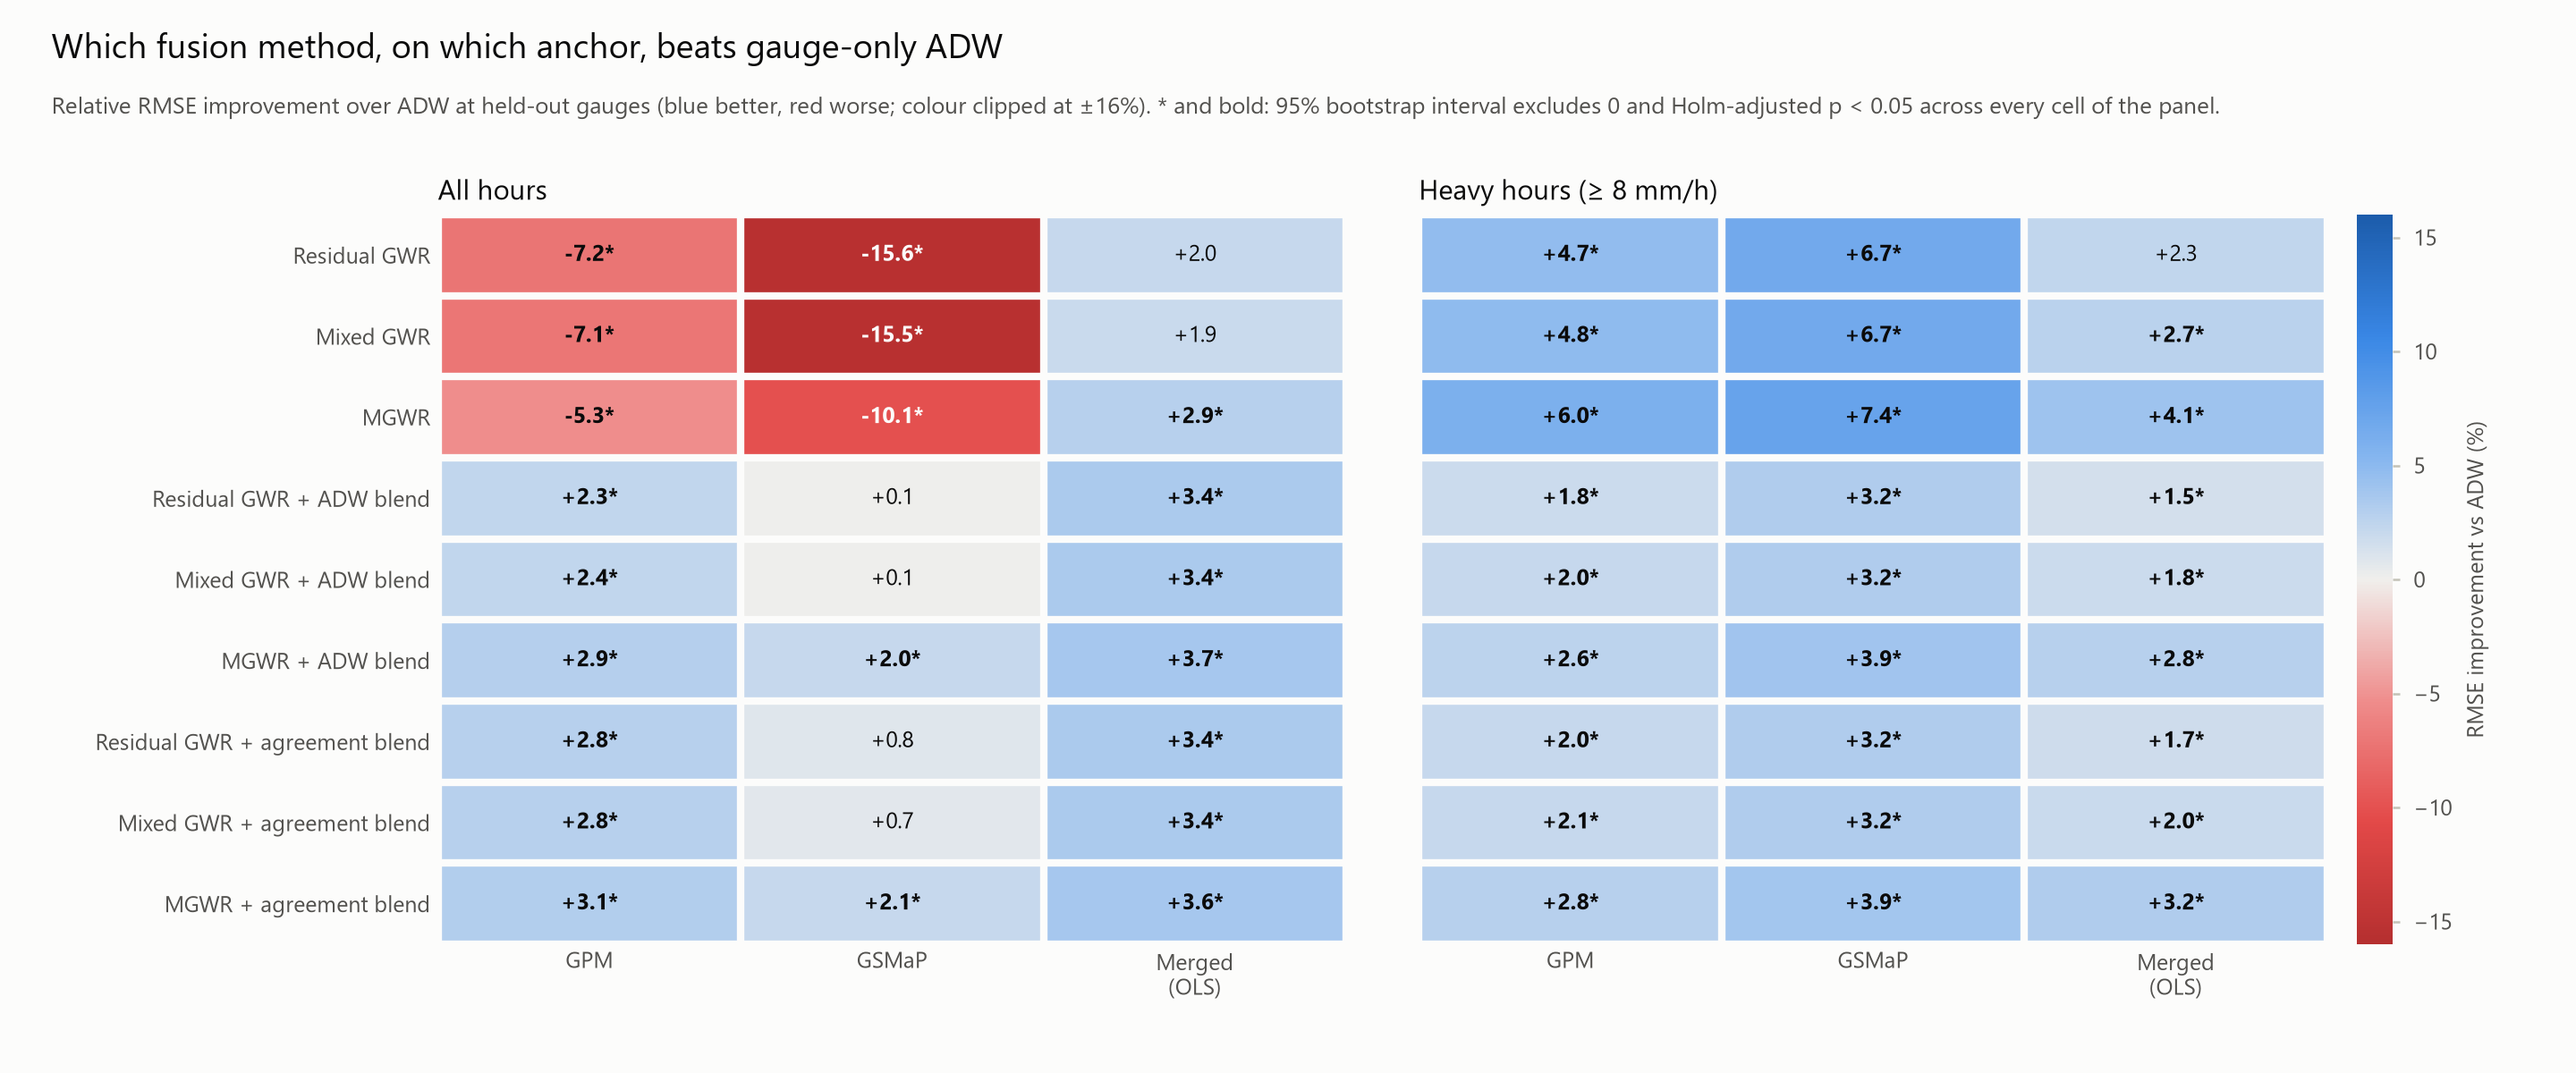
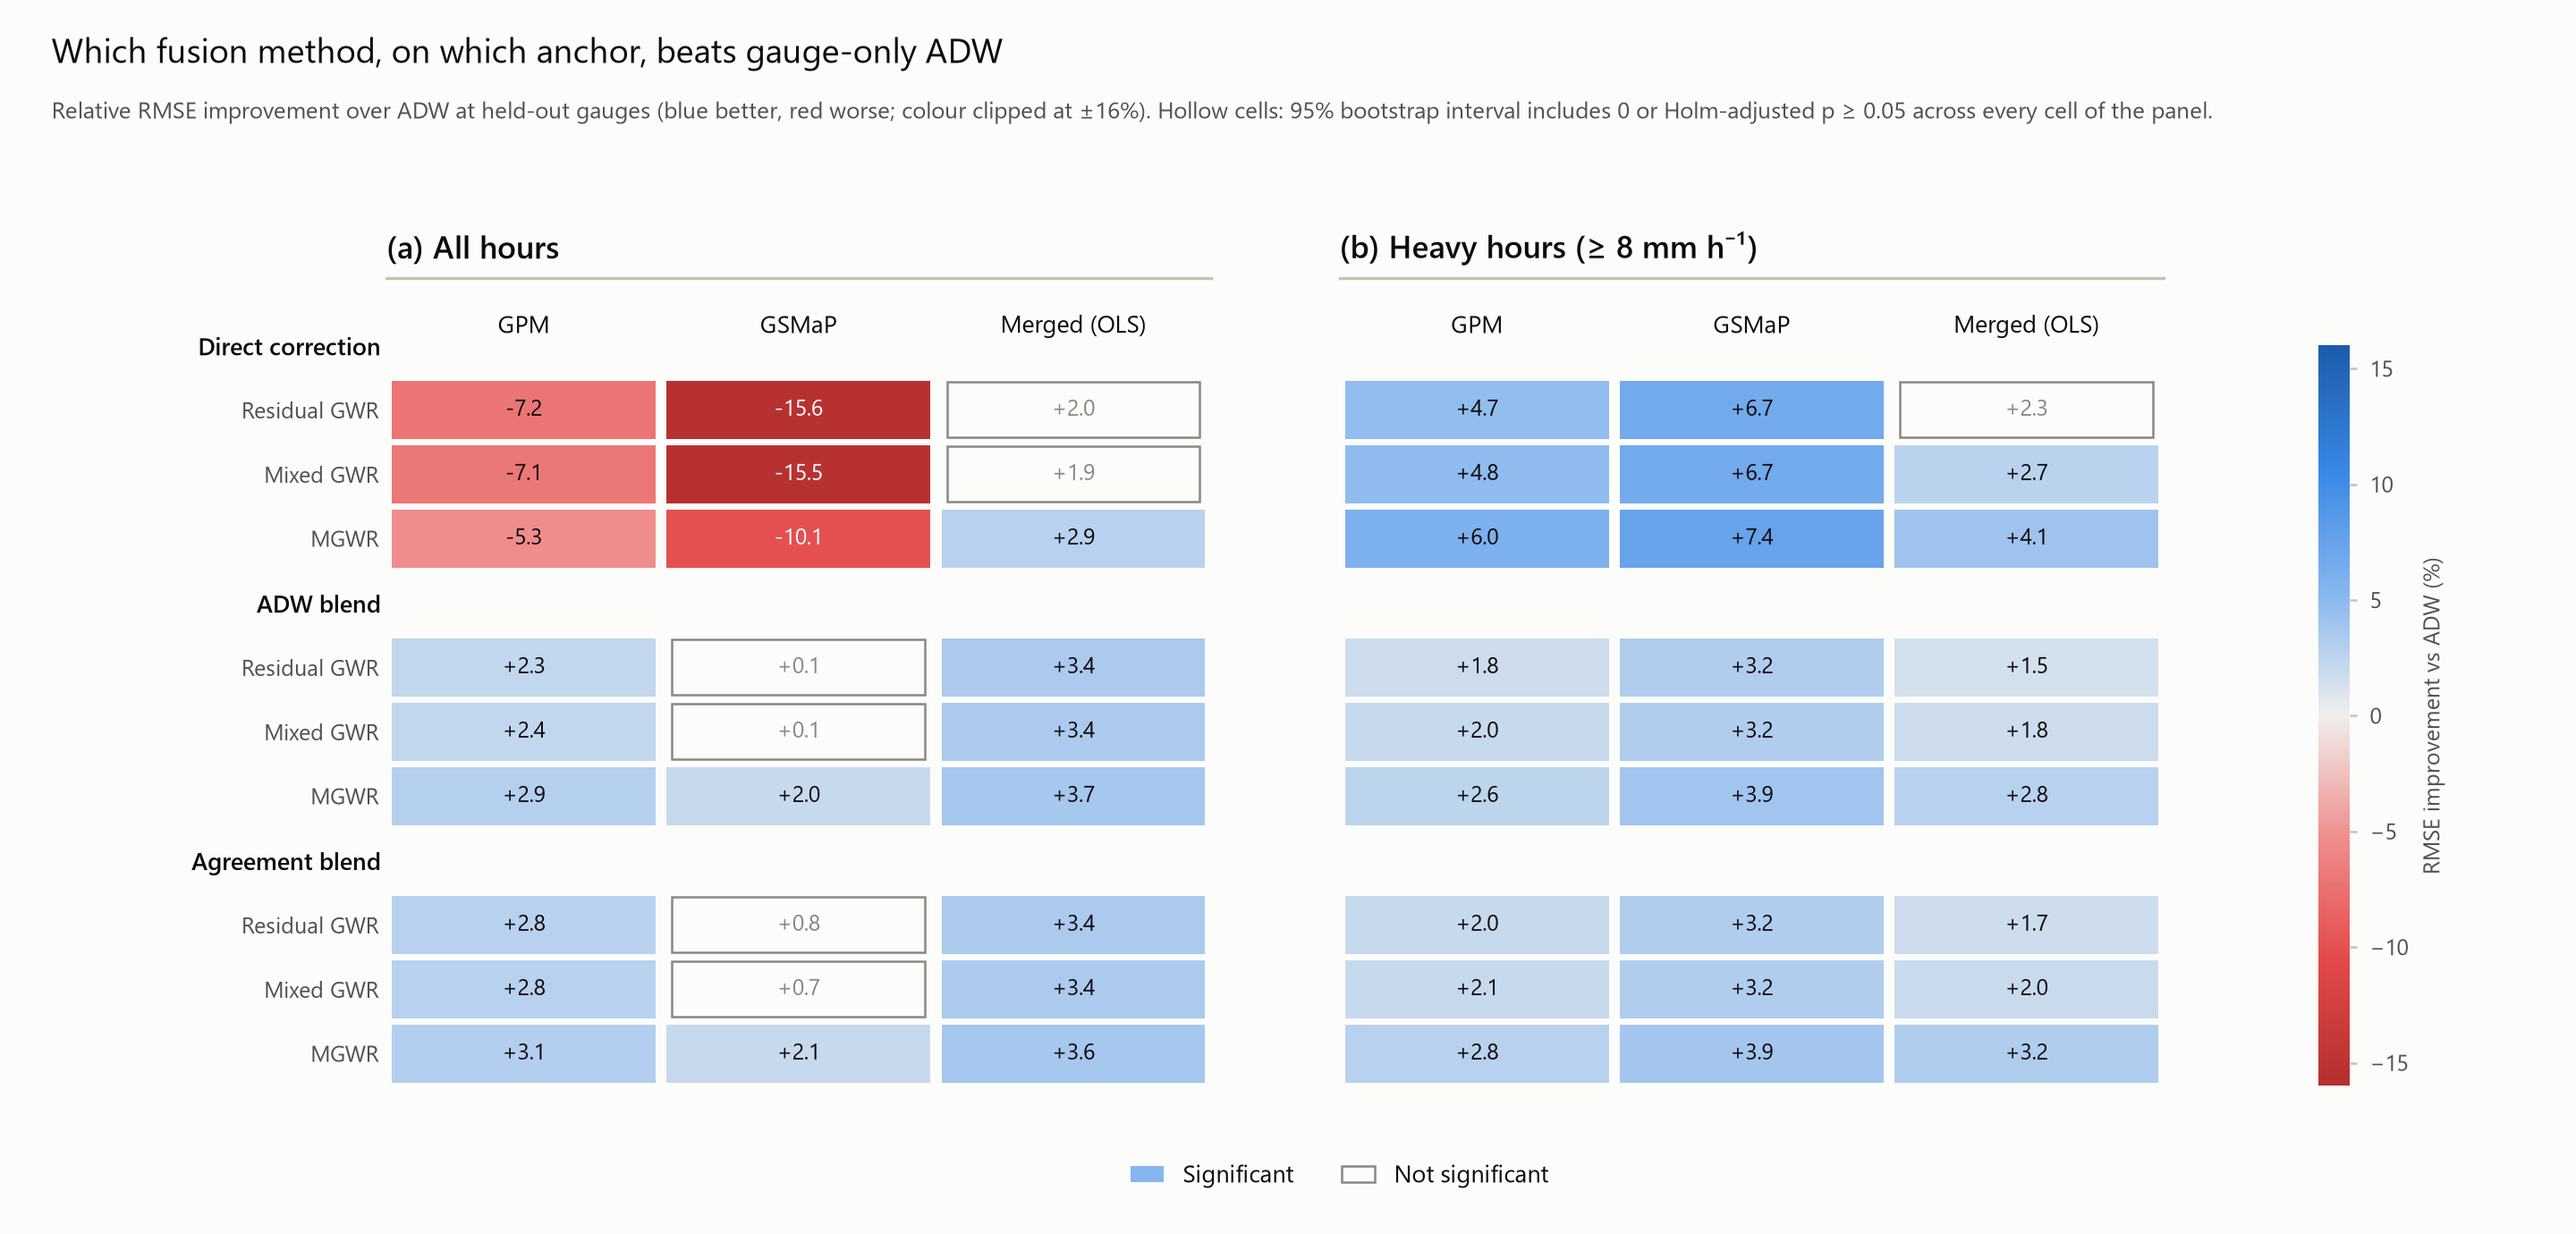
Group the fusion-methods figure by method family and mark significance by hollow cells
The nine rows sit under three headings (direct correction, ADW blend,
agreement blend) instead of carrying suffixes. The two panels get their own
headings, (a) All hours and (b) Heavy hours, a rule each, and anchor labels
on top. Bold plus asterisks on 30 of 36 cells is replaced by drawing the
non-significant cells hollow, with a legend. The paper caption says so.

diff --git a/scripts/plot_gauge_satellite_fusion.py b/scripts/plot_gauge_satellite_fusion.py
@@ -33,6 +33,7 @@ import matplotlib.pyplot as plt
 import numpy as np
 from matplotlib.colors import LinearSegmentedColormap, TwoSlopeNorm
 from matplotlib.lines import Line2D
+from matplotlib.patches import Patch, Rectangle
 
 ROOT = Path(__file__).resolve().parents[1]
 GPM_GSMAP_ONLY = "--gpm-gsmap" in sys.argv[1:]
@@ -58,6 +59,9 @@ ANCHOR_LABELS = {"FY4B": "FY4B", "GPM": "GPM", "GSMaP": "GSMaP", "MERGED_MEAN": 
                  "MERGED_OLS": "Merged\n(OLS)"}
 FUSION_METHODS = ["residual_gwr", "mixed_gwr", "mgwr", "blend_residual_gwr", "blend_mixed_gwr", "blend_mgwr",
                   "blend_agrenv_residual_gwr", "blend_agrenv_mixed_gwr", "blend_agrenv_mgwr"]
+FUSION_GROUPS = [("Direct correction", ["residual_gwr", "mixed_gwr", "mgwr"]),
+                 ("ADW blend", ["blend_residual_gwr", "blend_mixed_gwr", "blend_mgwr"]),
+                 ("Agreement blend", ["blend_agrenv_residual_gwr", "blend_agrenv_mixed_gwr", "blend_agrenv_mgwr"])]
 METHOD_LABELS = {
     "raw": "Raw satellite", "adw": "ADW (gauges only)", "idw": "IDW", "tps": "TPS", "gwr": "GWR (gauges only)",
     "auto": "GWR family, chosen in-fold", "residual_gwr": "Residual GWR", "mixed_gwr": "Mixed GWR", "mgwr": "MGWR",
@@ -261,43 +265,66 @@ def fig2_interpolators(ranking: list[dict], summary: list[dict]) -> None:
 
 
 def fig3_heatmap(fusion: list[dict]) -> None:
-    fig, axes = plt.subplots(1, 2, figsize=(9.6, 4.0))
-    fig.subplots_adjust(left=0.17, right=0.93, top=0.8, bottom=0.12, wspace=0.08)
+    fig = plt.figure(figsize=(9.6, 4.6))
     norm = TwoSlopeNorm(vmin=-16, vcenter=0, vmax=16)
-    for ax, (stratum, label) in zip(axes, [("overall", "All hours"), ("heavy", "Heavy hours (≥ 8 mm/h)")]):
-        grid = np.full((len(FUSION_METHODS), len(ANCHORS)), np.nan)
-        for i, method in enumerate(FUSION_METHODS):
+    # Row positions: three rows per group, with a gap above each group that holds its heading.
+    gap = 1.0
+    rows = []   # (y, method, group heading or None)
+    for g, (heading, methods) in enumerate(FUSION_GROUPS):
+        for k, method in enumerate(methods):
+            rows.append((gap + g * (len(methods) + gap) + k, method, heading if k == 0 else None))
+    panels = [("overall", "(a) All hours"), ("heavy", "(b) Heavy hours (≥ 8 mm h⁻¹)")]
+    for index, (stratum, label) in enumerate(panels):
+        ax = fig.add_axes([0.15 + index * 0.37, 0.12, 0.32, 0.6])
+        for y, method, heading in rows:
             for j, anchor in enumerate(ANCHORS):
                 row = one(fusion, stratum=stratum, product=anchor, method=method)
                 if row is None:
                     continue
-                grid[i, j] = pct(row["relative_improvement"])
+                change = pct(row["relative_improvement"])
                 significant = row["pvalue_holm_family"] < 0.05 and np.sign(row["relative_ci_low"]) == np.sign(
                     row["relative_ci_high"])
-                text = f"{grid[i, j]:+.1f}" + ("*" if significant else "")
-                shade = abs(grid[i, j]) > 9
-                ax.text(j, i, text, ha="center", va="center", fontsize=6,
-                        color=SURFACE if shade else INK, fontweight="bold" if significant else "normal")
-        image = ax.imshow(np.clip(grid, -16, 16), cmap=DIVERGING, norm=norm, aspect="auto")
+                # Significance is the rule, so the exceptions are marked: a hollow cell has no evidence of a
+                # difference from ADW and carries no colour.
+                if significant:
+                    ax.add_patch(Rectangle((j - 0.48, y - 0.45), 0.96, 0.9, facecolor=DIVERGING(norm(np.clip(change, -16, 16))),
+                                           edgecolor="none"))
+                    color = SURFACE if abs(change) > 9 else INK
+                else:
+                    ax.add_patch(Rectangle((j - 0.46, y - 0.43), 0.92, 0.86, facecolor=SURFACE, edgecolor=MUTED,
+                                           linewidth=0.6))
+                    color = MUTED
+                ax.text(j, y, f"{change:+.1f}", ha="center", va="center", fontsize=6, color=color)
+            if heading is not None and index == 0:
+                ax.text(-0.52, y - 0.95, heading, ha="right", va="center", fontsize=6.6, fontweight="semibold",
+                        color=INK, transform=ax.transData)
+        ax.set_xlim(-0.5, len(ANCHORS) - 0.5)
+        ax.set_ylim(rows[-1][0] + 0.5, 0.0)
+        ax.xaxis.tick_top()
         ax.set_xticks(range(len(ANCHORS)))
-        ax.set_xticklabels([ANCHOR_LABELS[a] for a in ANCHORS], fontsize=6)
-        ax.set_yticks(range(len(FUSION_METHODS)))
-        ax.set_yticklabels([METHOD_LABELS[m] for m in FUSION_METHODS] if ax is axes[0] else [], fontsize=6)
+        ax.set_xticklabels([ANCHOR_LABELS[a].replace("\n", " ") for a in ANCHORS], fontsize=6.4, color=INK)
+        ax.set_yticks([y for y, _, _ in rows])
+        base = {m: METHOD_LABELS[m] for m in ("residual_gwr", "mixed_gwr", "mgwr")}
+        ax.set_yticklabels([base[m.removeprefix("blend_agrenv_").removeprefix("blend_")] for _, m, _ in rows]
+                           if index == 0 else [], fontsize=6)
         ax.tick_params(length=0, pad=2)
         for spine in ax.spines.values():
             spine.set_visible(False)
-        ax.set_xticks(np.arange(-0.5, len(ANCHORS)), minor=True)
-        ax.set_yticks(np.arange(-0.5, len(FUSION_METHODS)), minor=True)
-        ax.grid(which="minor", color=SURFACE, linewidth=2)
-        ax.tick_params(which="minor", length=0)
-        ax.set_title(label, loc="left", pad=4)
-    bar = fig.colorbar(image, ax=axes, fraction=0.02, pad=0.015)
+        # A heading and a rule over each panel, so the two read as separate comparisons.
+        box = ax.get_position()
+        fig.text(box.x0, box.y1 + 0.065, label, ha="left", va="bottom", fontsize=8.5, fontweight="semibold")
+        fig.add_artist(Line2D([box.x0, box.x1], [box.y1 + 0.055] * 2, color=AXIS, linewidth=0.8))
+    bar = fig.colorbar(mpl.cm.ScalarMappable(norm=norm, cmap=DIVERGING), cax=fig.add_axes([0.9, 0.12, 0.012, 0.6]))
     bar.set_label("RMSE improvement vs ADW (%)", fontsize=6)
     bar.ax.tick_params(labelsize=6, length=2)
     bar.outline.set_visible(False)
+    handles = [Patch(facecolor=ORDINAL_BLUES[0], edgecolor="none", label="Significant"),
+               Patch(facecolor=SURFACE, edgecolor=MUTED, linewidth=0.6, label="Not significant")]
+    fig.legend(handles=handles, frameon=False, fontsize=6.4, ncol=2, loc="lower center", bbox_to_anchor=(0.52, 0.02),
+               handlelength=1.4)
     title(fig, "Which fusion method, on which anchor, beats gauge-only ADW",
           "Relative RMSE improvement over ADW at held-out gauges (blue better, red worse; colour clipped at ±16%). "
-          "* and bold: 95% bootstrap interval excludes 0 and Holm-adjusted p < 0.05 across every cell of the panel.",
+          "Hollow cells: 95% bootstrap interval includes 0 or Holm-adjusted p ≥ 0.05 across every cell of the panel.",
           top=0.97)
     save(fig, "fusion_fig3_methods_by_anchor")
 
